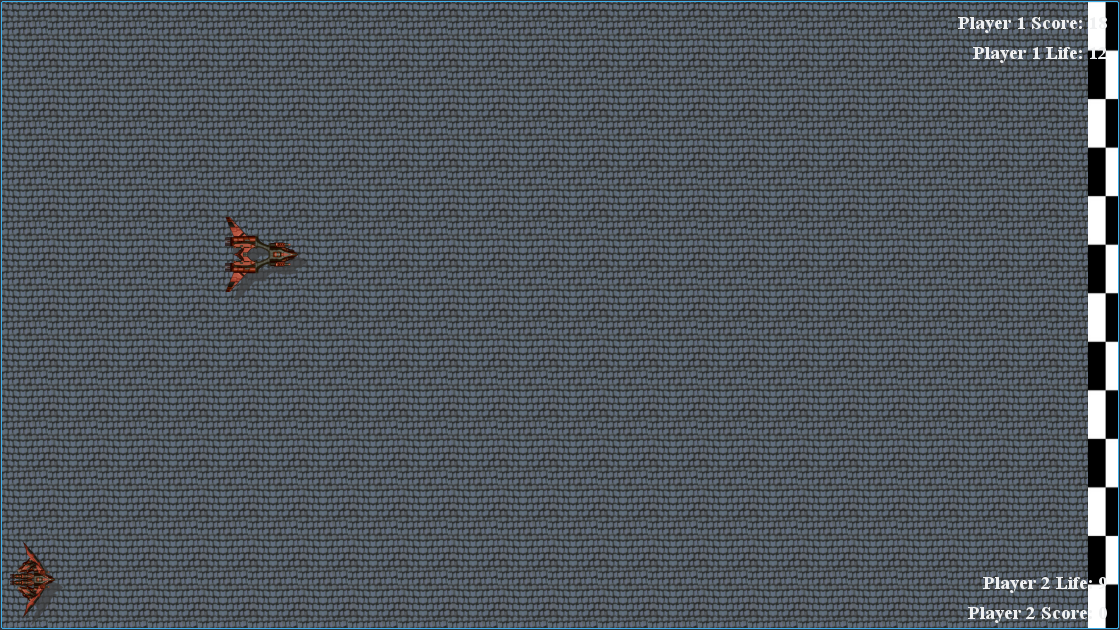
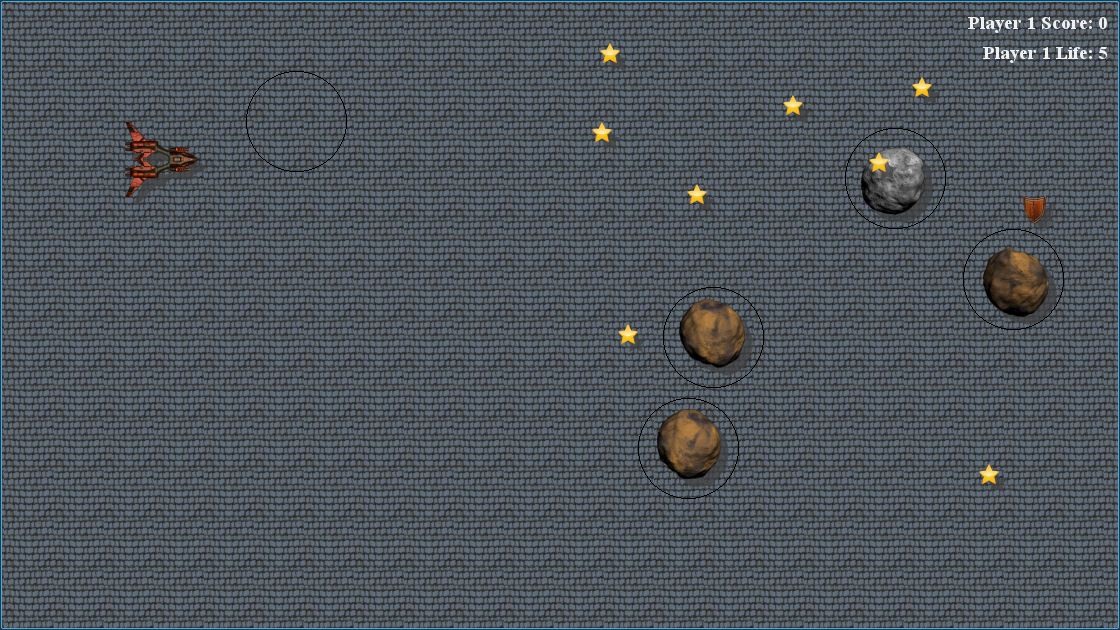
Project Update

diff --git a/Sources/Source Files/Game Objects/MyAsteroid.cpp b/Sources/Source Files/Game Objects/MyAsteroid.cpp
@@ -21,6 +21,10 @@ MyAsteroid::MyAsteroid(int typ) :
 			vlc = new QPointF(-10, 10);
 		}
 	}
+	if (typ == 1) {
+		grv = true;
+		grv_fld = new QGraphicsEllipseItem(boundingRect());
+	}
 	for (int i = 0; i < MyRes::astrd_frcnt; i++) {
 		astrd_frms[i] = new QPixmap(MyRes::astrd_adds[astrd_num][i]);
 	}
@@ -52,5 +56,10 @@ void MyAsteroid::updt() {
 	}
 	else {
 		vlc->setY(vlc->y() * (-1));
+	}
+	if (grv) {
+		grv_fld->setRect(sceneBoundingRect().x() + pixmap().width() / 2 - MyRes::astrd_grv_size.width() / 2,
+		                 sceneBoundingRect().y() + pixmap().height() / 2 - MyRes::astrd_grv_size.height() / 2,
+		                 MyRes::astrd_grv_size.width(), MyRes::astrd_grv_size.height());
 	}
 }

diff --git a/Sources/Headers/Game Objects/MyAsteroid.h b/Sources/Headers/Game Objects/MyAsteroid.h
@@ -17,6 +17,8 @@
 class MyAsteroid : public QObject, public QGraphicsPixmapItem {
 Q_OBJECT
 
+	friend class MyGame;
+
 public:
 	MyAsteroid(int);
 
@@ -28,13 +30,11 @@ private:
 	int astrd_num;
 	int frm_num;
 
-//	int typ;
-//	bool grv;
+	bool grv;
 
-//	int mss;
+	QGraphicsEllipseItem *grv_fld;
+
 	QPointF *vlc;
-//	QPointF *acc;
-//	QPointF *frc;
 
 	QPixmap **astrd_frms;
 };

diff --git a/Sources/Source Files/Widgets/MyGame.cpp b/Sources/Source Files/Widgets/MyGame.cpp
@@ -208,6 +208,7 @@ void MyGame::bld_stg1() {
 		            (rand() % ((MyRes::gm_drtn / MyRes::frm_dly) - MyRes::astrd_size.width() + 1)),
 		            (rand() % (MyRes::app_size.height() - MyRes::astrd_size.height() + 1)));
 		scene()->addItem(astrd);
+		scene()->addItem(astrd->grv_fld);
 	}
 	for (int i = 0; i < MyRes::stg_lf; i++) {
 		MyLife *lf = new MyLife();

diff --git a/Sources/Source Files/Resources.cpp b/Sources/Source Files/Resources.cpp
@@ -13,6 +13,7 @@ namespace MyRes {
     const QSize mgc_size(30, 30);
     const QSize shld_size(33, 33);
     const QSize astrd_size(150, 150);
+    const QSize astrd_grv_size(100, 100);
     const QSize aln_smllsize(50, 50);
     const QSize aln_bgsize(100, 100);
     const QSize shp_size(75, 75);

diff --git a/Sources/Headers/Resources.h b/Sources/Headers/Resources.h
@@ -58,6 +58,7 @@ namespace MyRes {
     extern const QSize mgc_size;
     extern const QSize shld_size;
     extern const QSize astrd_size;
+    extern const QSize astrd_grv_size;
     extern const QSize aln_bgsize;
     extern const QSize aln_smllsize;
     extern const QSize shp_size;
